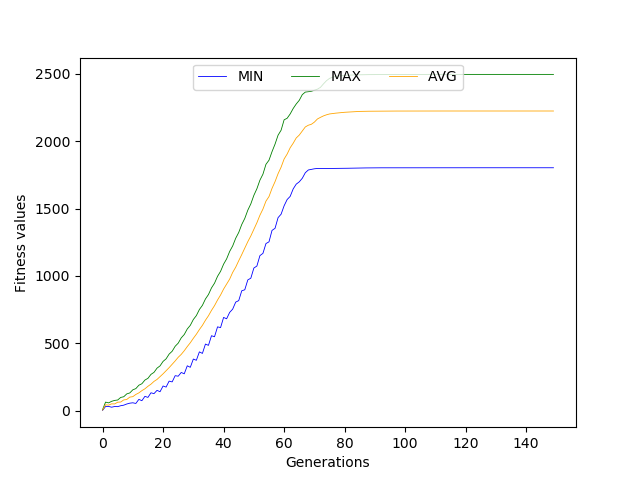
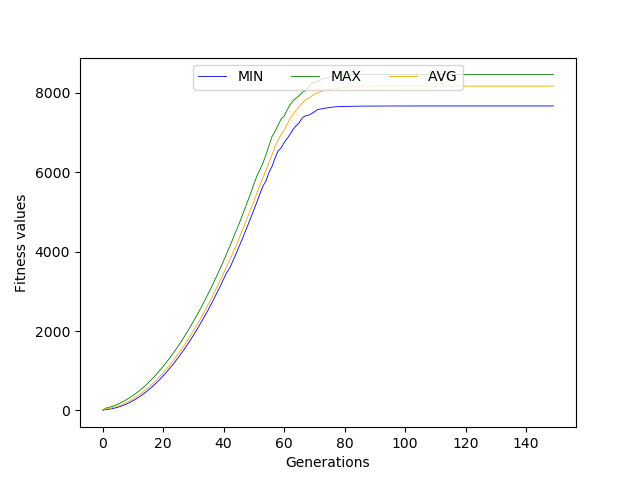
Clear atoms before generation population

diff --git a/ASO/Population.py b/ASO/Population.py
@@ -59,10 +59,11 @@ class Population(object):
         
     
 
-    def generatePopulation(self, d, depth, multiplierWeight):
+    def generatePopulation(self, d):
+        self.atoms.clear()
         for i in range(self.pop_size):
             fitValue = sys.float_info.max
-            self.atoms.append(Atom(self.f_min, self.f_max, d, fitValue, depth, multiplierWeight))
+            self.atoms.append(Atom(self.f_min, self.f_max, d, fitValue))
 
     def evaluatePopulation(self, costFunction):
 
@@ -83,14 +84,17 @@ class Population(object):
         return mi_sum
     
     def calculateKbest(self, cur_iter, num_iter):
+
         newlist = []
         for atom in self.atoms: newlist.append(atom)
         for i in range(len(newlist)):
-            for j in range(len(newlist)-1):
-                if(newlist[i].fitValue > newlist[j].fitValue):
-                    temp = newlist[i]
-                    newlist[i] = newlist[j]
-                    newlist[j] = temp
+            for j in range(len(newlist)):
+                if(i == j):
+                    continue
+                if(newlist[i].fitValue < newlist[j].fitValue):
+                    temp = newlist[j]
+                    newlist[j] = newlist[i]
+                    newlist[i] = temp
         K = self.calculateK(cur_iter, num_iter)
         #print("K: "+str(K))
         kBest = []
@@ -175,7 +179,7 @@ class Population(object):
         return f_ij
 
 
-    def calculateInteractionForce(self, alfa, curr_atom, i, cur_iter, num_iter, dimention):
+    def calculateInteractionForce(self, alfa, curr_atom, cur_iter, num_iter, dimention):
 
         depth = self.calculateDepthFactor(alfa, cur_iter, num_iter)
         kBest = self.calculateKbest(cur_iter, num_iter)
@@ -189,7 +193,7 @@ class Population(object):
         return f_i
             
 
-    def calculateAcceleration(self, alpha, beta, curr_atom, i, best_atom, cur_iter, num_iter):
+    def calculateAcceleration(self, alpha, beta, curr_atom, best_atom, cur_iter, num_iter):
         
         acceleration = []
 
@@ -199,29 +203,29 @@ class Population(object):
         for d in range(curr_atom.dimention):
             
             #print("Dimention--"+str(d)+"--")
-            f_i = self.calculateInteractionForce(alpha, curr_atom, i, cur_iter, num_iter, d)
+            f_i = self.calculateInteractionForce(alpha, curr_atom, cur_iter, num_iter, d)
             g_i = self.calculateConstraintForce(curr_atom, best_atom, cur_iter, num_iter, beta, d)
             
             constraction = g_i / m_i
             a = (f_i + constraction)
             #print("Acceleration: "+str(a))
             #print("-------------------------------------")
-            acceleration.append(fromRange(a, 0.1*self.f_min, 0.1*self.f_max))
+            acceleration.append(a)
         
         #print("F: %s, G: %s, a: %s" % (str(f_i), str(g_i), str(acceleration)))
 
         return acceleration
 
-    def calculateVelocityAndPosition(self, alpha, beta, curr_atom, index,  best_atom, cur_iter, num_iter):
+    def calculateVelocityAndPosition(self, alpha, beta, curr_atom, best_atom, cur_iter, num_iter):
 
-        acceleration = self.calculateAcceleration(alpha, beta, curr_atom, index, best_atom, cur_iter, num_iter)
+        acceleration = self.calculateAcceleration(alpha, beta, curr_atom, best_atom, cur_iter, num_iter)
         #print("Acceleration: "+str(acceleration))
         velocity = []
         position = []
 
         for d in range(curr_atom.dimention):
             v = random.uniform(0,1) * curr_atom.velocity[d] + acceleration[d]
-            velocity.append(fromRange(v, 0.1*self.f_min, 0.1*self.f_max))
+            velocity.append(fromRange(v, 0.2*self.f_min, 0.2*self.f_max))
             position.append(curr_atom.position[d] + velocity[d])
         
         #curr_atom.updateParams(position, velocity)
@@ -241,7 +245,7 @@ class Population(object):
         for atom in self.atoms:
             #print("GetFITS fit values: "+str(atom.fitValue))
             gFits.append(atom.fitValue)
-        print(gFits)
+        print("Generation fit values "+ str(gFits))
         return gFits
 
     def getFitWorst(self):

diff --git a/ASO/atom.py b/ASO/atom.py
@@ -6,11 +6,9 @@ import sys
 
 class Atom(object):
     
-    def __init__(self, minP, maxP, d, fitValue, depth, multiplierWeight):
+    def __init__(self, minP, maxP, d, fitValue):
 
         self.dimention = d
-        self.depthWeight = depth
-        self.multiplierWeight = multiplierWeight
         self.fitValue = fitValue
         self.mass = float(0.0000001)
         self.mi = float(0.001)
